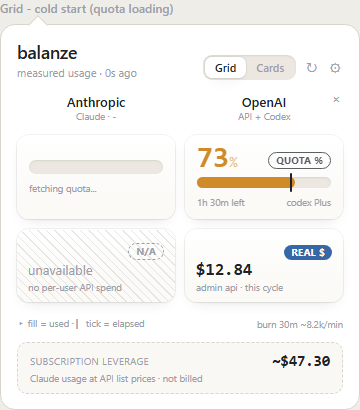
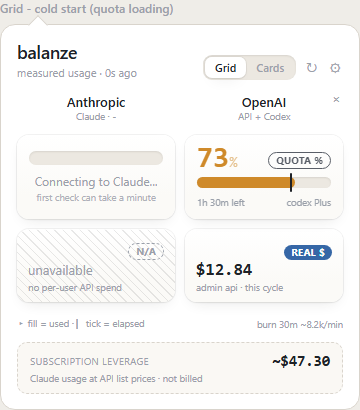
feat(ui): plain-language cold-start cell, no jargon tooltip (#104)

Changed region(s): [[0.0611, 0.3512, 0.4583, 0.4976]]

diff --git a/src/lib/components/GridView.svelte b/src/lib/components/GridView.svelte
@@ -65,9 +65,12 @@
     </div>
   {:else}
     <div class="cell skel"
-      title="Waiting for the first quota fetch - the OAuth usage endpoint backs off on the 429s it returns during active Claude Code use. Wire Balanze as your Claude statusLine for instant live quota.">
+      title="Balanze is fetching your Claude usage for the first time. Wire Balanze as your Claude statusLine in Settings for instant live quota.">
       <div class="skelbar"></div>
-      <span class="skelcap">fetching quota...</span>
+      <div class="skeltext">
+        <span class="skelcap">Connecting to Claude...</span>
+        <span class="skelsub">first check can take a minute</span>
+      </div>
     </div>
   {/if}
 
@@ -133,7 +136,9 @@
      "loading", not a bare string. */
   .skel { padding: 11px 12px; display: flex; flex-direction: column; gap: 8px; justify-content: center; min-height: 84px; cursor: help; }
   .skelbar { height: 14px; border-radius: 7px; background: var(--track); box-shadow: var(--channel); animation: pulse 1.4s ease-in-out infinite; }
-  .skelcap { font-size: var(--text-2xs); color: var(--faint); }
+  .skeltext { display: flex; flex-direction: column; gap: 2px; align-items: center; }
+  .skelcap { font-size: var(--text-sm); color: var(--faint); }
+  .skelsub { font-size: var(--text-2xs); color: var(--faint); opacity: .8; }
   @keyframes pulse { 0%, 100% { opacity: 1; } 50% { opacity: .4; } }
   @media (prefers-reduced-motion: reduce) { .skelbar { animation: none; } }
   /* Connect CTA: spans the OpenAI column's two metric rows (column 2). */